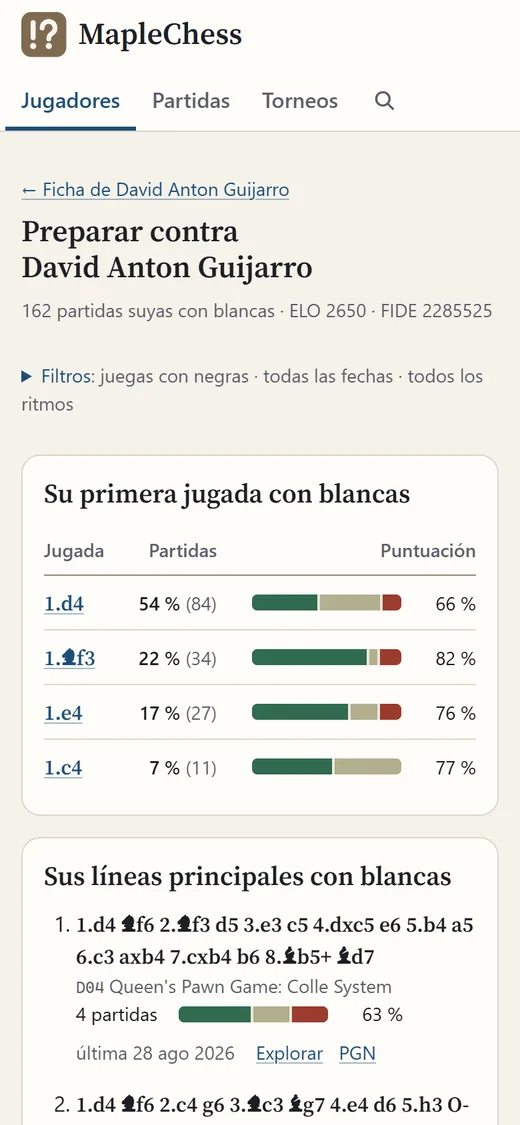
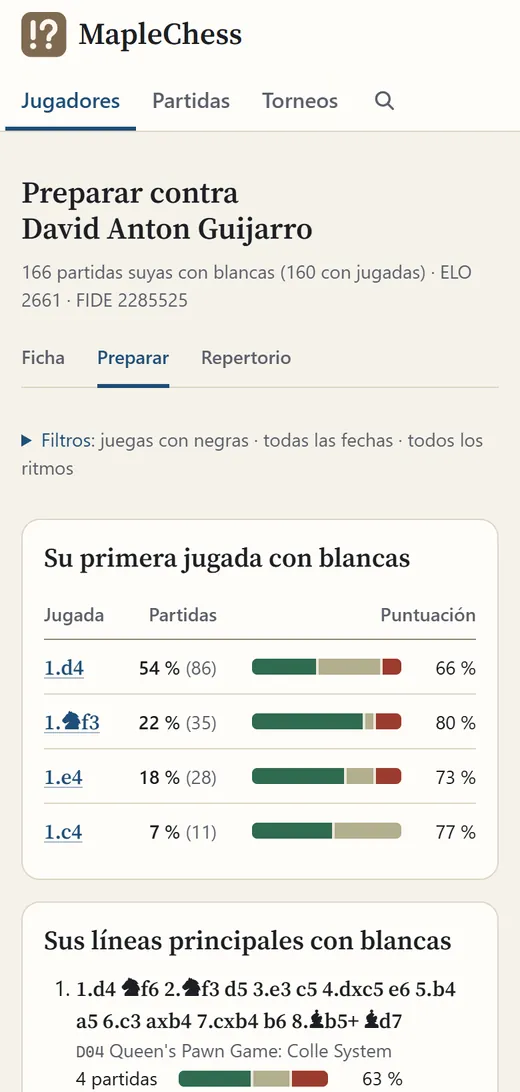
Las capturas del README, con las piezas nuevas
Las ocho, de producción y en claro y en oscuro, ya con las piezas de #109 y sin
la raya del menú (#110). La variante del visor en el móvil sale de pulsar la
primera línea de Stockfish, como dice el README.

diff --git a/docs/decisiones.md b/docs/decisiones.md
@@ -744,7 +744,7 @@ La historia, las medidas, los casos concretos y el detalle de cada página que s
 
 #### Capturas del README
 
-- **Capturas del README** (`docs/capturas/`, 25-oct-2026): de producción, en WebP y en claro y oscuro, que el README elige con `<picture>` y `prefers-color-scheme`. Sólo enseñan GM de élite (la partida 53051, Anton Guijarro contra Gukesh, y el dossier de Anton, 2285525) y nombres de torneos: nunca a otros jugadores ni a posibles menores. El visor, a 1280×800 con el motor encendido; las del móvil, a 390×844. Las ocho pesan unos 480 KB.
+- **Capturas del README** (`docs/capturas/`, 25-oct-2026; rehechas el 7-nov-2026, con las piezas nuevas): de producción, en WebP y en claro y oscuro, que el README elige con `<picture>` y `prefers-color-scheme`. Sólo enseñan GM de élite (la partida 53051, Anton Guijarro contra Gukesh, y el dossier de Anton, 2285525) y nombres de torneos: nunca a otros jugadores ni a posibles menores. El visor, a 1280×800 con el motor encendido; las del móvil, a 390×844. Las ocho pesan unos 440 KB.
 
 ### `main` es lo desplegado y está protegido
 
